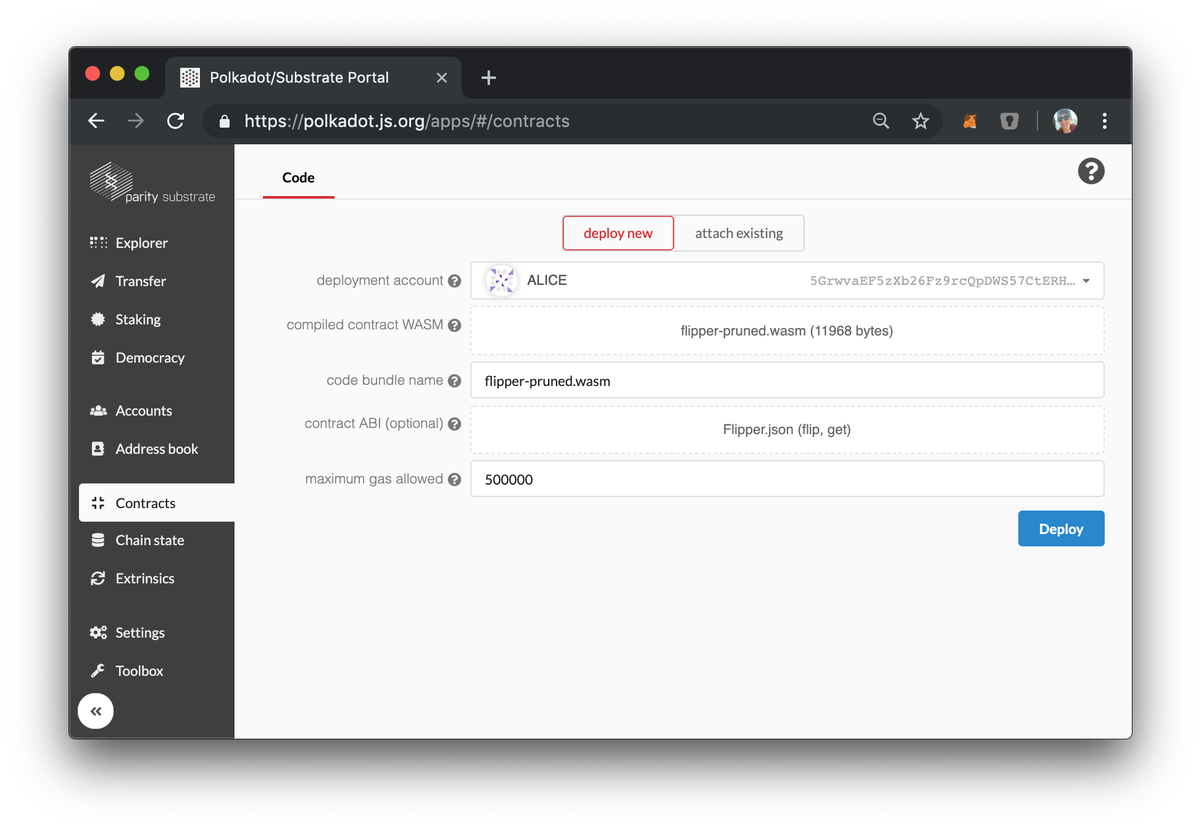
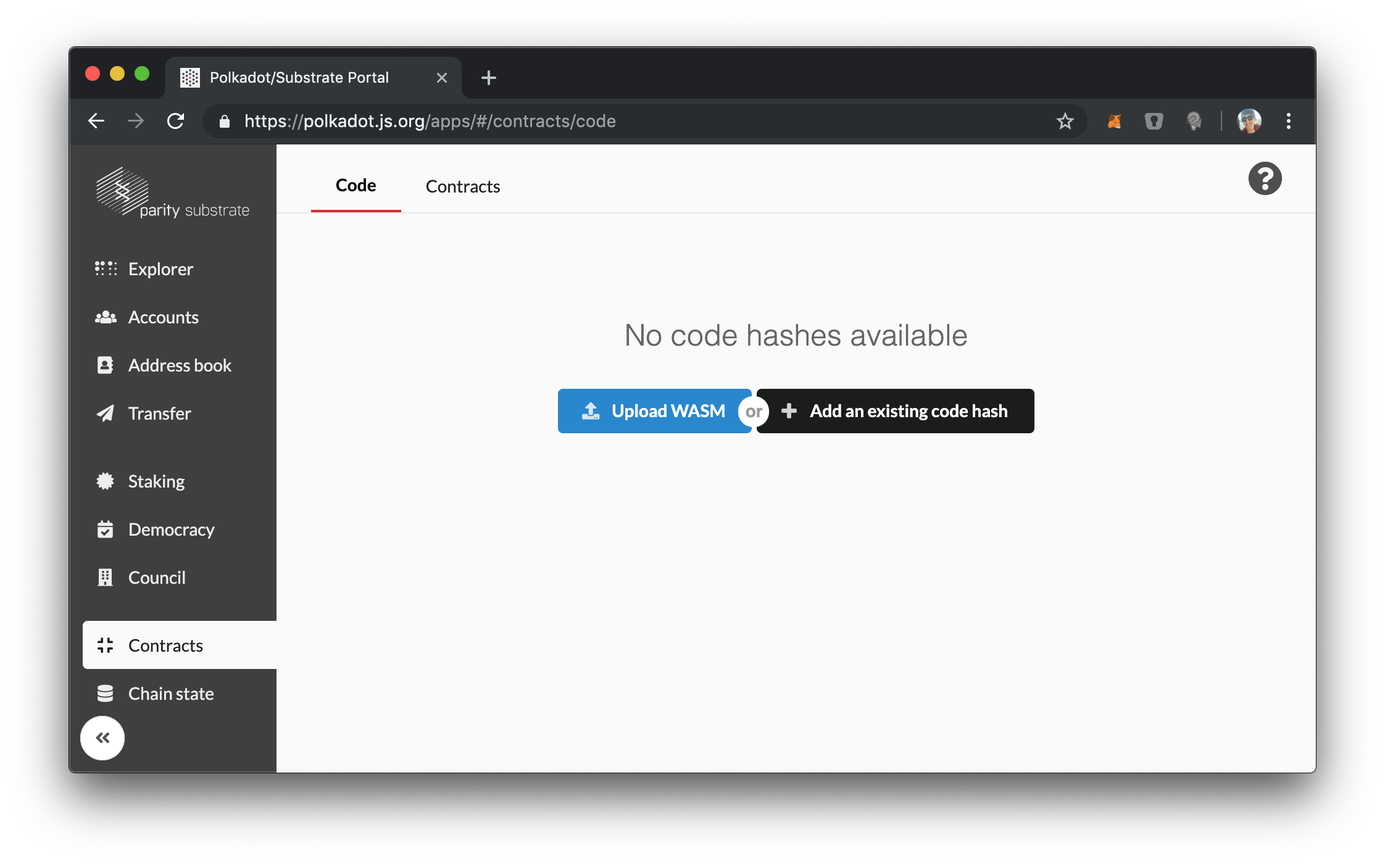
Deploy website
Deploy website version based on 84d9c6945a19dc81233f24be1835d4c7d788c4ee

diff --git a/docs/en/contracts/deploying-a-contract.html b/docs/en/contracts/deploying-a-contract.html
@@ -112,17 +112,20 @@
 <h3><a class="anchor" aria-hidden="true" id="putting-your-code-on-the-blockchain"></a><a href="#putting-your-code-on-the-blockchain" aria-hidden="true" class="hash-link"><svg class="hash-link-icon" aria-hidden="true" height="16" version="1.1" viewBox="0 0 16 16" width="16"><path fill-rule="evenodd" d="M4 9h1v1H4c-1.5 0-3-1.69-3-3.5S2.55 3 4 3h4c1.45 0 3 1.69 3 3.5 0 1.41-.91 2.72-2 3.25V8.59c.58-.45 1-1.27 1-2.09C10 5.22 8.98 4 8 4H4c-.98 0-2 1.22-2 2.5S3 9 4 9zm9-3h-1v1h1c1 0 2 1.22 2 2.5S13.98 12 13 12H9c-.98 0-2-1.22-2-2.5 0-.83.42-1.64 1-2.09V6.25c-1.09.53-2 1.84-2 3.25C6 11.31 7.55 13 9 13h4c1.45 0 3-1.69 3-3.5S14.5 6 13 6z"></path></svg></a>Putting Your Code on the Blockchain</h3>
 <p>With your Substrate development node running, you can go back to the <a href="https://polkadot.js.org/apps/">Polkadot UI</a> where you will be able to interact with your blockchain.</p>
 <p>Open the specially designed <strong>Contracts</strong> section of the UI.</p>
-<p>In the <strong>Code</strong> section, select a <em>deployment account</em> with some account balance like Alice. In <em>compiled contract WASM</em>, select the <code>flipper-pruned.wasm</code> file we generated. For the <em>contract ABI</em>, select the JSON file. Finally, set the <em>maximum gas allowed</em> to <code>500,000</code> units.</p>
+<p>In the <strong>Code</strong> section, select <em>upload WASM</em>.</p>
 <p><img src="/img/flipper-code-page.png" alt="Contracts code page for deploying Flipper"></p>
-<p>After you press <strong>Deploy</strong> and a new block is formed, an extrinsic event is emitted with <code>contract.codeStored</code>. This means that you have successfully stored your WASM contract on your Substrate blockchain!</p>
+<p>Choose a <em>deployment account</em> with some account balance like Alice. In <em>compiled contract WASM</em>, select the <code>flipper-pruned.wasm</code> file we generated. For the <em>contract ABI</em>, select the JSON file generated for your contract. Finally, set the <em>maximum gas allowed</em> to <code>500,000</code> units.</p>
+<p><img src="/img/flipper-upload-page.png" alt="Contracts upload page for deploying Flipper"></p>
+<p>After you press <strong>Upload</strong> and a new block is formed, an extrinsic event is emitted with <code>contract.codeStored</code>. This means that you have successfully stored your Wasm contract on your Substrate blockchain!</p>
 <h3><a class="anchor" aria-hidden="true" id="creating-an-instance-of-your-contract"></a><a href="#creating-an-instance-of-your-contract" aria-hidden="true" class="hash-link"><svg class="hash-link-icon" aria-hidden="true" height="16" version="1.1" viewBox="0 0 16 16" width="16"><path fill-rule="evenodd" d="M4 9h1v1H4c-1.5 0-3-1.69-3-3.5S2.55 3 4 3h4c1.45 0 3 1.69 3 3.5 0 1.41-.91 2.72-2 3.25V8.59c.58-.45 1-1.27 1-2.09C10 5.22 8.98 4 8 4H4c-.98 0-2 1.22-2 2.5S3 9 4 9zm9-3h-1v1h1c1 0 2 1.22 2 2.5S13.98 12 13 12H9c-.98 0-2-1.22-2-2.5 0-.83.42-1.64 1-2.09V6.25c-1.09.53-2 1.84-2 3.25C6 11.31 7.55 13 9 13h4c1.45 0 3-1.69 3-3.5S14.5 6 13 6z"></path></svg></a>Creating an Instance of Your Contract</h3>
 <p>Like Ethereum, smart contracts exist as an extension of the account system on the blockchain. Thus creating an instance of this contract will create a new <code>AccountId</code> which will store any balance managed by the smart contract and allow us to interact with the contract.</p>
-<p>You will notice on the <strong>Contracts</strong> tab there is a new section called <strong>Instance</strong> where we will now create an instance of this smart contract.</p>
-<p><img src="/img/flipper-instance-page.png" alt="An image of the Contracts Instance Page"></p>
-<p>The <em>code for this contract</em> is automatically set to the flipper contract you published, but you can imagine if you created multiple contracts, that you would be able to choose from a drop down of options.</p>
-<p>To instantiate our contract we just need to give this contract account an <em>endowment</em> of 1000 and again set the <em>maximum gas allowed</em> to <code>500,000</code> units.</p>
+<p>You will notice the contract you uploaded is now available to you on the <strong>Code</strong> section:</p>
+<p><img src="/img/flipper-code-uploaded-page.png" alt="An image of the Contracts Uploaded Contract Page"></p>
+<p>To create an instance of your contract, press the <em>Deploy</em> button, which will bring you to the deployment page:</p>
+<p><img src="/img/flipper-deploy-page.png" alt="An image of the Contracts Deploy Page"></p>
+<p>To instantiate our contract we just need to give this contract account an <em>endowment</em> of <code>10,000</code> and again set the <em>maximum gas allowed</em> to <code>500,000</code> units.</p>
 <blockquote>
-<p><strong>Note:</strong> As mentioned earlier, contract creation involves creation of a new Account. As such, you must be sure to give the contract account at least the existential deposit defined by your blockchain. This is why we set the <code>endowment</code> to <code>1000</code>.</p>
+<p><strong>Note:</strong> As mentioned earlier, contract creation involves creation of a new Account. As such, you must be sure to give the contract account at least the existential deposit defined by your blockchain. This is why we set the <code>endowment</code> to <code>10,000</code>.</p>
 </blockquote>
 <p>When you press <strong>Instantiate</strong>, you should see a flurry of events appear including the creation of a new account (<code>balances.NewAccount</code>) and the instantiation of the contract (<code>contract.Instantiated</code>):</p>
 <p><img src="/img/flipper-instance-events.png" alt="An image of events from instantiation of Flipper"></p>
@@ -130,10 +133,9 @@
 <p>Now that your contract has been fully deployed, we can start to interact with it! Flipper only has two functions, so we will show you what it's like to play with both of them.</p>
 <h3><a class="anchor" aria-hidden="true" id="get"></a><a href="#get" aria-hidden="true" class="hash-link"><svg class="hash-link-icon" aria-hidden="true" height="16" version="1.1" viewBox="0 0 16 16" width="16"><path fill-rule="evenodd" d="M4 9h1v1H4c-1.5 0-3-1.69-3-3.5S2.55 3 4 3h4c1.45 0 3 1.69 3 3.5 0 1.41-.91 2.72-2 3.25V8.59c.58-.45 1-1.27 1-2.09C10 5.22 8.98 4 8 4H4c-.98 0-2 1.22-2 2.5S3 9 4 9zm9-3h-1v1h1c1 0 2 1.22 2 2.5S13.98 12 13 12H9c-.98 0-2-1.22-2-2.5 0-.83.42-1.64 1-2.09V6.25c-1.09.53-2 1.84-2 3.25C6 11.31 7.55 13 9 13h4c1.45 0 3-1.69 3-3.5S14.5 6 13 6z"></path></svg></a><code>get()</code></h3>
 <p>If you take a look back at our contract's <code>deploy()</code> function, we set the initial value of the Flipper contract to <code>false</code>. Let's check that this is the case.</p>
-<p>In the <strong>Call</strong> section, set the <em>message to send</em> to <code>get(): bool</code>. Send a <em>value</em> of <code>1</code> with the <em>maximum gas allowed</em> set to <code>100,000</code>.</p>
-<blockquote>
-<p><strong>NOTE:</strong> You should not need to send any <em>value</em> when making a contract call, but there is a temporary bug in the UI requiring it, so we just put <code>1</code>.</p>
-</blockquote>
+<p>In the <strong>Contracts</strong> section, press <em>execute</em>.</p>
+<p><img src="/img/flipper-instance-page.png" alt="An image of instance page"></p>
+<p>Set the <em>message to send</em> to <code>get(): bool</code>. Set the <em>maximum gas allowed</em> to <code>100,000</code>. You do not need to set a <em>value</em> here since we don't want to transfer any tokens to the contract.</p>
 <p><img src="/img/flipper-call-page.png" alt="An image of the Contracts call page"></p>
 <p>Contract calls cannot return a value to the outside world. So when you press <strong>Call</strong>, you will get a pretty unsatisfying <code>system.ExtrinsicSuccess</code> message. However, ink! provides a debugging tool to enable you to print messages to your node's terminal.</p>
 <p>If we take a look, we can actually see our storage value:</p>
@@ -150,7 +152,7 @@
 <p>Woohoo! You deployed a smart contract!</p>
 <h2><a class="anchor" aria-hidden="true" id="next-steps"></a><a href="#next-steps" aria-hidden="true" class="hash-link"><svg class="hash-link-icon" aria-hidden="true" height="16" version="1.1" viewBox="0 0 16 16" width="16"><path fill-rule="evenodd" d="M4 9h1v1H4c-1.5 0-3-1.69-3-3.5S2.55 3 4 3h4c1.45 0 3 1.69 3 3.5 0 1.41-.91 2.72-2 3.25V8.59c.58-.45 1-1.27 1-2.09C10 5.22 8.98 4 8 4H4c-.98 0-2 1.22-2 2.5S3 9 4 9zm9-3h-1v1h1c1 0 2 1.22 2 2.5S13.98 12 13 12H9c-.98 0-2-1.22-2-2.5 0-.83.42-1.64 1-2.09V6.25c-1.09.53-2 1.84-2 3.25C6 11.31 7.55 13 9 13h4c1.45 0 3-1.69 3-3.5S14.5 6 13 6z"></path></svg></a>Next Steps</h2>
 <p>If you are interested to learn how to write ink! smart contracts, check out our <a href="/tutorials/">tutorials page</a>.</p>
-</span></div></article></div><div class="docLastUpdate"><em>Last updated on 6/19/2019 by Shawn Tabrizi</em></div><div class="docs-prevnext"><a class="docs-prev button" href="/docs/en/contracts/testing-your-contract"><span class="arrow-prev">← </span><span>Testing Your Contract</span></a><a class="docs-next button" href="/docs/en/contracts/faq"><span>Frequently Asked Questions</span><span class="arrow-next"> →</span></a></div></div></div><nav class="onPageNav"><ul class="toc-headings"><li><a href="#starting-your-node">Starting Your Node</a></li><li><a href="#creating-the-flipper-hello-world-contract">Creating the Flipper &quot;Hello World&quot; Contract</a></li><li><a href="#deploying-your-contract">Deploying Your Contract</a><ul class="toc-headings"><li><a href="#putting-your-code-on-the-blockchain">Putting Your Code on the Blockchain</a></li><li><a href="#creating-an-instance-of-your-contract">Creating an Instance of Your Contract</a></li></ul></li><li><a href="#calling-your-contract">Calling Your Contract</a><ul class="toc-headings"><li><a href="#get"><code>get()</code></a></li><li><a href="#flip"><code>flip()</code></a></li></ul></li><li><a href="#next-steps">Next Steps</a></li></ul></nav></div><footer class="nav-footer" id="footer"><section class="sitemap"><a href="/" class="nav-home"><img src="/img/Substrate-logo.svg" alt="Substrate Developer Hub" width="66" height="58"/></a><div><h5>Docs</h5><a href="/docs/en/getting-started">Getting Started</a><a href="/en/tutorials">Tutorials</a><a href="/rustdocs/v1.0/">Reference Docs</a></div><div><h5>Community</h5><a href="/en/users.html">User Showcase</a><a href="http://stackoverflow.com/questions/tagged/substrate" target="_blank" rel="noreferrer noopener">Stack Overflow</a><a href="https://riot.im/app/#/room/!HzySYSaIhtyWrwiwEV:matrix.org">Riot Chat</a><a href="https://twitter.com/ParityTech" target="_blank" rel="noreferrer noopener">Twitter</a></div><div><h5>More</h5><a href="https://www.parity.io/blog/">Blog</a><a href="https://github.com/paritytech/substrate">Substrate GitHub</a><a href="https://github.com/substrate-developer-hub/">Developer Hub GitHub</a><a class="github-button" href="https://github.com/substrate-developer-hub/substrate-developer-hub.github.io" data-icon="octicon-star" data-count-href="/facebook/docusaurus/stargazers" data-show-count="true" data-count-aria-label="# stargazers on GitHub" aria-label="Star this project on GitHub">Star</a></div></section><section class="copyright">Copyright © 2019 Parity Technologies</section></footer></div><script type="text/javascript" src="https://cdn.jsdelivr.net/docsearch.js/1/docsearch.min.js"></script><script>
+</span></div></article></div><div class="docLastUpdate"><em>Last updated on 6/24/2019 by Shawn Tabrizi</em></div><div class="docs-prevnext"><a class="docs-prev button" href="/docs/en/contracts/testing-your-contract"><span class="arrow-prev">← </span><span>Testing Your Contract</span></a><a class="docs-next button" href="/docs/en/contracts/faq"><span>Frequently Asked Questions</span><span class="arrow-next"> →</span></a></div></div></div><nav class="onPageNav"><ul class="toc-headings"><li><a href="#starting-your-node">Starting Your Node</a></li><li><a href="#creating-the-flipper-hello-world-contract">Creating the Flipper &quot;Hello World&quot; Contract</a></li><li><a href="#deploying-your-contract">Deploying Your Contract</a><ul class="toc-headings"><li><a href="#putting-your-code-on-the-blockchain">Putting Your Code on the Blockchain</a></li><li><a href="#creating-an-instance-of-your-contract">Creating an Instance of Your Contract</a></li></ul></li><li><a href="#calling-your-contract">Calling Your Contract</a><ul class="toc-headings"><li><a href="#get"><code>get()</code></a></li><li><a href="#flip"><code>flip()</code></a></li></ul></li><li><a href="#next-steps">Next Steps</a></li></ul></nav></div><footer class="nav-footer" id="footer"><section class="sitemap"><a href="/" class="nav-home"><img src="/img/Substrate-logo.svg" alt="Substrate Developer Hub" width="66" height="58"/></a><div><h5>Docs</h5><a href="/docs/en/getting-started">Getting Started</a><a href="/en/tutorials">Tutorials</a><a href="/rustdocs/v1.0/">Reference Docs</a></div><div><h5>Community</h5><a href="/en/users.html">User Showcase</a><a href="http://stackoverflow.com/questions/tagged/substrate" target="_blank" rel="noreferrer noopener">Stack Overflow</a><a href="https://riot.im/app/#/room/!HzySYSaIhtyWrwiwEV:matrix.org">Riot Chat</a><a href="https://twitter.com/ParityTech" target="_blank" rel="noreferrer noopener">Twitter</a></div><div><h5>More</h5><a href="https://www.parity.io/blog/">Blog</a><a href="https://github.com/paritytech/substrate">Substrate GitHub</a><a href="https://github.com/substrate-developer-hub/">Developer Hub GitHub</a><a class="github-button" href="https://github.com/substrate-developer-hub/substrate-developer-hub.github.io" data-icon="octicon-star" data-count-href="/facebook/docusaurus/stargazers" data-show-count="true" data-count-aria-label="# stargazers on GitHub" aria-label="Star this project on GitHub">Star</a></div></section><section class="copyright">Copyright © 2019 Parity Technologies</section></footer></div><script type="text/javascript" src="https://cdn.jsdelivr.net/docsearch.js/1/docsearch.min.js"></script><script>
                 document.addEventListener('keyup', function(e) {
                   if (e.target !== document.body) {
                     return;

diff --git a/docs/en/contracts/deploying-a-contract/index.html b/docs/en/contracts/deploying-a-contract/index.html
@@ -112,17 +112,20 @@
 <h3><a class="anchor" aria-hidden="true" id="putting-your-code-on-the-blockchain"></a><a href="#putting-your-code-on-the-blockchain" aria-hidden="true" class="hash-link"><svg class="hash-link-icon" aria-hidden="true" height="16" version="1.1" viewBox="0 0 16 16" width="16"><path fill-rule="evenodd" d="M4 9h1v1H4c-1.5 0-3-1.69-3-3.5S2.55 3 4 3h4c1.45 0 3 1.69 3 3.5 0 1.41-.91 2.72-2 3.25V8.59c.58-.45 1-1.27 1-2.09C10 5.22 8.98 4 8 4H4c-.98 0-2 1.22-2 2.5S3 9 4 9zm9-3h-1v1h1c1 0 2 1.22 2 2.5S13.98 12 13 12H9c-.98 0-2-1.22-2-2.5 0-.83.42-1.64 1-2.09V6.25c-1.09.53-2 1.84-2 3.25C6 11.31 7.55 13 9 13h4c1.45 0 3-1.69 3-3.5S14.5 6 13 6z"></path></svg></a>Putting Your Code on the Blockchain</h3>
 <p>With your Substrate development node running, you can go back to the <a href="https://polkadot.js.org/apps/">Polkadot UI</a> where you will be able to interact with your blockchain.</p>
 <p>Open the specially designed <strong>Contracts</strong> section of the UI.</p>
-<p>In the <strong>Code</strong> section, select a <em>deployment account</em> with some account balance like Alice. In <em>compiled contract WASM</em>, select the <code>flipper-pruned.wasm</code> file we generated. For the <em>contract ABI</em>, select the JSON file. Finally, set the <em>maximum gas allowed</em> to <code>500,000</code> units.</p>
+<p>In the <strong>Code</strong> section, select <em>upload WASM</em>.</p>
 <p><img src="/img/flipper-code-page.png" alt="Contracts code page for deploying Flipper"></p>
-<p>After you press <strong>Deploy</strong> and a new block is formed, an extrinsic event is emitted with <code>contract.codeStored</code>. This means that you have successfully stored your WASM contract on your Substrate blockchain!</p>
+<p>Choose a <em>deployment account</em> with some account balance like Alice. In <em>compiled contract WASM</em>, select the <code>flipper-pruned.wasm</code> file we generated. For the <em>contract ABI</em>, select the JSON file generated for your contract. Finally, set the <em>maximum gas allowed</em> to <code>500,000</code> units.</p>
+<p><img src="/img/flipper-upload-page.png" alt="Contracts upload page for deploying Flipper"></p>
+<p>After you press <strong>Upload</strong> and a new block is formed, an extrinsic event is emitted with <code>contract.codeStored</code>. This means that you have successfully stored your Wasm contract on your Substrate blockchain!</p>
 <h3><a class="anchor" aria-hidden="true" id="creating-an-instance-of-your-contract"></a><a href="#creating-an-instance-of-your-contract" aria-hidden="true" class="hash-link"><svg class="hash-link-icon" aria-hidden="true" height="16" version="1.1" viewBox="0 0 16 16" width="16"><path fill-rule="evenodd" d="M4 9h1v1H4c-1.5 0-3-1.69-3-3.5S2.55 3 4 3h4c1.45 0 3 1.69 3 3.5 0 1.41-.91 2.72-2 3.25V8.59c.58-.45 1-1.27 1-2.09C10 5.22 8.98 4 8 4H4c-.98 0-2 1.22-2 2.5S3 9 4 9zm9-3h-1v1h1c1 0 2 1.22 2 2.5S13.98 12 13 12H9c-.98 0-2-1.22-2-2.5 0-.83.42-1.64 1-2.09V6.25c-1.09.53-2 1.84-2 3.25C6 11.31 7.55 13 9 13h4c1.45 0 3-1.69 3-3.5S14.5 6 13 6z"></path></svg></a>Creating an Instance of Your Contract</h3>
 <p>Like Ethereum, smart contracts exist as an extension of the account system on the blockchain. Thus creating an instance of this contract will create a new <code>AccountId</code> which will store any balance managed by the smart contract and allow us to interact with the contract.</p>
-<p>You will notice on the <strong>Contracts</strong> tab there is a new section called <strong>Instance</strong> where we will now create an instance of this smart contract.</p>
-<p><img src="/img/flipper-instance-page.png" alt="An image of the Contracts Instance Page"></p>
-<p>The <em>code for this contract</em> is automatically set to the flipper contract you published, but you can imagine if you created multiple contracts, that you would be able to choose from a drop down of options.</p>
-<p>To instantiate our contract we just need to give this contract account an <em>endowment</em> of 1000 and again set the <em>maximum gas allowed</em> to <code>500,000</code> units.</p>
+<p>You will notice the contract you uploaded is now available to you on the <strong>Code</strong> section:</p>
+<p><img src="/img/flipper-code-uploaded-page.png" alt="An image of the Contracts Uploaded Contract Page"></p>
+<p>To create an instance of your contract, press the <em>Deploy</em> button, which will bring you to the deployment page:</p>
+<p><img src="/img/flipper-deploy-page.png" alt="An image of the Contracts Deploy Page"></p>
+<p>To instantiate our contract we just need to give this contract account an <em>endowment</em> of <code>10,000</code> and again set the <em>maximum gas allowed</em> to <code>500,000</code> units.</p>
 <blockquote>
-<p><strong>Note:</strong> As mentioned earlier, contract creation involves creation of a new Account. As such, you must be sure to give the contract account at least the existential deposit defined by your blockchain. This is why we set the <code>endowment</code> to <code>1000</code>.</p>
+<p><strong>Note:</strong> As mentioned earlier, contract creation involves creation of a new Account. As such, you must be sure to give the contract account at least the existential deposit defined by your blockchain. This is why we set the <code>endowment</code> to <code>10,000</code>.</p>
 </blockquote>
 <p>When you press <strong>Instantiate</strong>, you should see a flurry of events appear including the creation of a new account (<code>balances.NewAccount</code>) and the instantiation of the contract (<code>contract.Instantiated</code>):</p>
 <p><img src="/img/flipper-instance-events.png" alt="An image of events from instantiation of Flipper"></p>
@@ -130,10 +133,9 @@
 <p>Now that your contract has been fully deployed, we can start to interact with it! Flipper only has two functions, so we will show you what it's like to play with both of them.</p>
 <h3><a class="anchor" aria-hidden="true" id="get"></a><a href="#get" aria-hidden="true" class="hash-link"><svg class="hash-link-icon" aria-hidden="true" height="16" version="1.1" viewBox="0 0 16 16" width="16"><path fill-rule="evenodd" d="M4 9h1v1H4c-1.5 0-3-1.69-3-3.5S2.55 3 4 3h4c1.45 0 3 1.69 3 3.5 0 1.41-.91 2.72-2 3.25V8.59c.58-.45 1-1.27 1-2.09C10 5.22 8.98 4 8 4H4c-.98 0-2 1.22-2 2.5S3 9 4 9zm9-3h-1v1h1c1 0 2 1.22 2 2.5S13.98 12 13 12H9c-.98 0-2-1.22-2-2.5 0-.83.42-1.64 1-2.09V6.25c-1.09.53-2 1.84-2 3.25C6 11.31 7.55 13 9 13h4c1.45 0 3-1.69 3-3.5S14.5 6 13 6z"></path></svg></a><code>get()</code></h3>
 <p>If you take a look back at our contract's <code>deploy()</code> function, we set the initial value of the Flipper contract to <code>false</code>. Let's check that this is the case.</p>
-<p>In the <strong>Call</strong> section, set the <em>message to send</em> to <code>get(): bool</code>. Send a <em>value</em> of <code>1</code> with the <em>maximum gas allowed</em> set to <code>100,000</code>.</p>
-<blockquote>
-<p><strong>NOTE:</strong> You should not need to send any <em>value</em> when making a contract call, but there is a temporary bug in the UI requiring it, so we just put <code>1</code>.</p>
-</blockquote>
+<p>In the <strong>Contracts</strong> section, press <em>execute</em>.</p>
+<p><img src="/img/flipper-instance-page.png" alt="An image of instance page"></p>
+<p>Set the <em>message to send</em> to <code>get(): bool</code>. Set the <em>maximum gas allowed</em> to <code>100,000</code>. You do not need to set a <em>value</em> here since we don't want to transfer any tokens to the contract.</p>
 <p><img src="/img/flipper-call-page.png" alt="An image of the Contracts call page"></p>
 <p>Contract calls cannot return a value to the outside world. So when you press <strong>Call</strong>, you will get a pretty unsatisfying <code>system.ExtrinsicSuccess</code> message. However, ink! provides a debugging tool to enable you to print messages to your node's terminal.</p>
 <p>If we take a look, we can actually see our storage value:</p>
@@ -150,7 +152,7 @@
 <p>Woohoo! You deployed a smart contract!</p>
 <h2><a class="anchor" aria-hidden="true" id="next-steps"></a><a href="#next-steps" aria-hidden="true" class="hash-link"><svg class="hash-link-icon" aria-hidden="true" height="16" version="1.1" viewBox="0 0 16 16" width="16"><path fill-rule="evenodd" d="M4 9h1v1H4c-1.5 0-3-1.69-3-3.5S2.55 3 4 3h4c1.45 0 3 1.69 3 3.5 0 1.41-.91 2.72-2 3.25V8.59c.58-.45 1-1.27 1-2.09C10 5.22 8.98 4 8 4H4c-.98 0-2 1.22-2 2.5S3 9 4 9zm9-3h-1v1h1c1 0 2 1.22 2 2.5S13.98 12 13 12H9c-.98 0-2-1.22-2-2.5 0-.83.42-1.64 1-2.09V6.25c-1.09.53-2 1.84-2 3.25C6 11.31 7.55 13 9 13h4c1.45 0 3-1.69 3-3.5S14.5 6 13 6z"></path></svg></a>Next Steps</h2>
 <p>If you are interested to learn how to write ink! smart contracts, check out our <a href="/tutorials/">tutorials page</a>.</p>
-</span></div></article></div><div class="docLastUpdate"><em>Last updated on 6/19/2019 by Shawn Tabrizi</em></div><div class="docs-prevnext"><a class="docs-prev button" href="/docs/en/contracts/testing-your-contract"><span class="arrow-prev">← </span><span>Testing Your Contract</span></a><a class="docs-next button" href="/docs/en/contracts/faq"><span>Frequently Asked Questions</span><span class="arrow-next"> →</span></a></div></div></div><nav class="onPageNav"><ul class="toc-headings"><li><a href="#starting-your-node">Starting Your Node</a></li><li><a href="#creating-the-flipper-hello-world-contract">Creating the Flipper &quot;Hello World&quot; Contract</a></li><li><a href="#deploying-your-contract">Deploying Your Contract</a><ul class="toc-headings"><li><a href="#putting-your-code-on-the-blockchain">Putting Your Code on the Blockchain</a></li><li><a href="#creating-an-instance-of-your-contract">Creating an Instance of Your Contract</a></li></ul></li><li><a href="#calling-your-contract">Calling Your Contract</a><ul class="toc-headings"><li><a href="#get"><code>get()</code></a></li><li><a href="#flip"><code>flip()</code></a></li></ul></li><li><a href="#next-steps">Next Steps</a></li></ul></nav></div><footer class="nav-footer" id="footer"><section class="sitemap"><a href="/" class="nav-home"><img src="/img/Substrate-logo.svg" alt="Substrate Developer Hub" width="66" height="58"/></a><div><h5>Docs</h5><a href="/docs/en/getting-started">Getting Started</a><a href="/en/tutorials">Tutorials</a><a href="/rustdocs/v1.0/">Reference Docs</a></div><div><h5>Community</h5><a href="/en/users.html">User Showcase</a><a href="http://stackoverflow.com/questions/tagged/substrate" target="_blank" rel="noreferrer noopener">Stack Overflow</a><a href="https://riot.im/app/#/room/!HzySYSaIhtyWrwiwEV:matrix.org">Riot Chat</a><a href="https://twitter.com/ParityTech" target="_blank" rel="noreferrer noopener">Twitter</a></div><div><h5>More</h5><a href="https://www.parity.io/blog/">Blog</a><a href="https://github.com/paritytech/substrate">Substrate GitHub</a><a href="https://github.com/substrate-developer-hub/">Developer Hub GitHub</a><a class="github-button" href="https://github.com/substrate-developer-hub/substrate-developer-hub.github.io" data-icon="octicon-star" data-count-href="/facebook/docusaurus/stargazers" data-show-count="true" data-count-aria-label="# stargazers on GitHub" aria-label="Star this project on GitHub">Star</a></div></section><section class="copyright">Copyright © 2019 Parity Technologies</section></footer></div><script type="text/javascript" src="https://cdn.jsdelivr.net/docsearch.js/1/docsearch.min.js"></script><script>
+</span></div></article></div><div class="docLastUpdate"><em>Last updated on 6/24/2019 by Shawn Tabrizi</em></div><div class="docs-prevnext"><a class="docs-prev button" href="/docs/en/contracts/testing-your-contract"><span class="arrow-prev">← </span><span>Testing Your Contract</span></a><a class="docs-next button" href="/docs/en/contracts/faq"><span>Frequently Asked Questions</span><span class="arrow-next"> →</span></a></div></div></div><nav class="onPageNav"><ul class="toc-headings"><li><a href="#starting-your-node">Starting Your Node</a></li><li><a href="#creating-the-flipper-hello-world-contract">Creating the Flipper &quot;Hello World&quot; Contract</a></li><li><a href="#deploying-your-contract">Deploying Your Contract</a><ul class="toc-headings"><li><a href="#putting-your-code-on-the-blockchain">Putting Your Code on the Blockchain</a></li><li><a href="#creating-an-instance-of-your-contract">Creating an Instance of Your Contract</a></li></ul></li><li><a href="#calling-your-contract">Calling Your Contract</a><ul class="toc-headings"><li><a href="#get"><code>get()</code></a></li><li><a href="#flip"><code>flip()</code></a></li></ul></li><li><a href="#next-steps">Next Steps</a></li></ul></nav></div><footer class="nav-footer" id="footer"><section class="sitemap"><a href="/" class="nav-home"><img src="/img/Substrate-logo.svg" alt="Substrate Developer Hub" width="66" height="58"/></a><div><h5>Docs</h5><a href="/docs/en/getting-started">Getting Started</a><a href="/en/tutorials">Tutorials</a><a href="/rustdocs/v1.0/">Reference Docs</a></div><div><h5>Community</h5><a href="/en/users.html">User Showcase</a><a href="http://stackoverflow.com/questions/tagged/substrate" target="_blank" rel="noreferrer noopener">Stack Overflow</a><a href="https://riot.im/app/#/room/!HzySYSaIhtyWrwiwEV:matrix.org">Riot Chat</a><a href="https://twitter.com/ParityTech" target="_blank" rel="noreferrer noopener">Twitter</a></div><div><h5>More</h5><a href="https://www.parity.io/blog/">Blog</a><a href="https://github.com/paritytech/substrate">Substrate GitHub</a><a href="https://github.com/substrate-developer-hub/">Developer Hub GitHub</a><a class="github-button" href="https://github.com/substrate-developer-hub/substrate-developer-hub.github.io" data-icon="octicon-star" data-count-href="/facebook/docusaurus/stargazers" data-show-count="true" data-count-aria-label="# stargazers on GitHub" aria-label="Star this project on GitHub">Star</a></div></section><section class="copyright">Copyright © 2019 Parity Technologies</section></footer></div><script type="text/javascript" src="https://cdn.jsdelivr.net/docsearch.js/1/docsearch.min.js"></script><script>
                 document.addEventListener('keyup', function(e) {
                   if (e.target !== document.body) {
                     return;

diff --git a/docs/zh-CN/contracts/deploying-a-contract.html b/docs/zh-CN/contracts/deploying-a-contract.html
@@ -112,17 +112,20 @@
 <h3><a class="anchor" aria-hidden="true" id="putting-your-code-on-the-blockchain"></a><a href="#putting-your-code-on-the-blockchain" aria-hidden="true" class="hash-link"><svg class="hash-link-icon" aria-hidden="true" height="16" version="1.1" viewBox="0 0 16 16" width="16"><path fill-rule="evenodd" d="M4 9h1v1H4c-1.5 0-3-1.69-3-3.5S2.55 3 4 3h4c1.45 0 3 1.69 3 3.5 0 1.41-.91 2.72-2 3.25V8.59c.58-.45 1-1.27 1-2.09C10 5.22 8.98 4 8 4H4c-.98 0-2 1.22-2 2.5S3 9 4 9zm9-3h-1v1h1c1 0 2 1.22 2 2.5S13.98 12 13 12H9c-.98 0-2-1.22-2-2.5 0-.83.42-1.64 1-2.09V6.25c-1.09.53-2 1.84-2 3.25C6 11.31 7.55 13 9 13h4c1.45 0 3-1.69 3-3.5S14.5 6 13 6z"></path></svg></a>Putting Your Code on the Blockchain</h3>
 <p>With your Substrate development node running, you can go back to the <a href="https://polkadot.js.org/apps/">Polkadot UI</a> where you will be able to interact with your blockchain.</p>
 <p>Open the specially designed <strong>Contracts</strong> section of the UI.</p>
-<p>In the <strong>Code</strong> section, select a <em>deployment account</em> with some account balance like Alice. In <em>compiled contract WASM</em>, select the <code>flipper-pruned.wasm</code> file we generated. For the <em>contract ABI</em>, select the JSON file. Finally, set the <em>maximum gas allowed</em> to <code>500,000</code> units.</p>
+<p>In the <strong>Code</strong> section, select <em>upload WASM</em>.</p>
 <p><img src="/img/flipper-code-page.png" alt="Contracts code page for deploying Flipper"></p>
-<p>After you press <strong>Deploy</strong> and a new block is formed, an extrinsic event is emitted with <code>contract.codeStored</code>. This means that you have successfully stored your WASM contract on your Substrate blockchain!</p>
+<p>Choose a <em>deployment account</em> with some account balance like Alice. In <em>compiled contract WASM</em>, select the <code>flipper-pruned.wasm</code> file we generated. For the <em>contract ABI</em>, select the JSON file generated for your contract. Finally, set the <em>maximum gas allowed</em> to <code>500,000</code> units.</p>
+<p><img src="/img/flipper-upload-page.png" alt="Contracts upload page for deploying Flipper"></p>
+<p>After you press <strong>Upload</strong> and a new block is formed, an extrinsic event is emitted with <code>contract.codeStored</code>. This means that you have successfully stored your Wasm contract on your Substrate blockchain!</p>
 <h3><a class="anchor" aria-hidden="true" id="creating-an-instance-of-your-contract"></a><a href="#creating-an-instance-of-your-contract" aria-hidden="true" class="hash-link"><svg class="hash-link-icon" aria-hidden="true" height="16" version="1.1" viewBox="0 0 16 16" width="16"><path fill-rule="evenodd" d="M4 9h1v1H4c-1.5 0-3-1.69-3-3.5S2.55 3 4 3h4c1.45 0 3 1.69 3 3.5 0 1.41-.91 2.72-2 3.25V8.59c.58-.45 1-1.27 1-2.09C10 5.22 8.98 4 8 4H4c-.98 0-2 1.22-2 2.5S3 9 4 9zm9-3h-1v1h1c1 0 2 1.22 2 2.5S13.98 12 13 12H9c-.98 0-2-1.22-2-2.5 0-.83.42-1.64 1-2.09V6.25c-1.09.53-2 1.84-2 3.25C6 11.31 7.55 13 9 13h4c1.45 0 3-1.69 3-3.5S14.5 6 13 6z"></path></svg></a>Creating an Instance of Your Contract</h3>
 <p>Like Ethereum, smart contracts exist as an extension of the account system on the blockchain. Thus creating an instance of this contract will create a new <code>AccountId</code> which will store any balance managed by the smart contract and allow us to interact with the contract.</p>
-<p>You will notice on the <strong>Contracts</strong> tab there is a new section called <strong>Instance</strong> where we will now create an instance of this smart contract.</p>
-<p><img src="/img/flipper-instance-page.png" alt="An image of the Contracts Instance Page"></p>
-<p>The <em>code for this contract</em> is automatically set to the flipper contract you published, but you can imagine if you created multiple contracts, that you would be able to choose from a drop down of options.</p>
-<p>To instantiate our contract we just need to give this contract account an <em>endowment</em> of 1000 and again set the <em>maximum gas allowed</em> to <code>500,000</code> units.</p>
+<p>You will notice the contract you uploaded is now available to you on the <strong>Code</strong> section:</p>
+<p><img src="/img/flipper-code-uploaded-page.png" alt="An image of the Contracts Uploaded Contract Page"></p>
+<p>To create an instance of your contract, press the <em>Deploy</em> button, which will bring you to the deployment page:</p>
+<p><img src="/img/flipper-deploy-page.png" alt="An image of the Contracts Deploy Page"></p>
+<p>To instantiate our contract we just need to give this contract account an <em>endowment</em> of <code>10,000</code> and again set the <em>maximum gas allowed</em> to <code>500,000</code> units.</p>
 <blockquote>
-<p><strong>Note:</strong> As mentioned earlier, contract creation involves creation of a new Account. As such, you must be sure to give the contract account at least the existential deposit defined by your blockchain. This is why we set the <code>endowment</code> to <code>1000</code>.</p>
+<p><strong>Note:</strong> As mentioned earlier, contract creation involves creation of a new Account. As such, you must be sure to give the contract account at least the existential deposit defined by your blockchain. This is why we set the <code>endowment</code> to <code>10,000</code>.</p>
 </blockquote>
 <p>When you press <strong>Instantiate</strong>, you should see a flurry of events appear including the creation of a new account (<code>balances.NewAccount</code>) and the instantiation of the contract (<code>contract.Instantiated</code>):</p>
 <p><img src="/img/flipper-instance-events.png" alt="An image of events from instantiation of Flipper"></p>
@@ -130,10 +133,9 @@
 <p>Now that your contract has been fully deployed, we can start to interact with it! Flipper only has two functions, so we will show you what it's like to play with both of them.</p>
 <h3><a class="anchor" aria-hidden="true" id="get"></a><a href="#get" aria-hidden="true" class="hash-link"><svg class="hash-link-icon" aria-hidden="true" height="16" version="1.1" viewBox="0 0 16 16" width="16"><path fill-rule="evenodd" d="M4 9h1v1H4c-1.5 0-3-1.69-3-3.5S2.55 3 4 3h4c1.45 0 3 1.69 3 3.5 0 1.41-.91 2.72-2 3.25V8.59c.58-.45 1-1.27 1-2.09C10 5.22 8.98 4 8 4H4c-.98 0-2 1.22-2 2.5S3 9 4 9zm9-3h-1v1h1c1 0 2 1.22 2 2.5S13.98 12 13 12H9c-.98 0-2-1.22-2-2.5 0-.83.42-1.64 1-2.09V6.25c-1.09.53-2 1.84-2 3.25C6 11.31 7.55 13 9 13h4c1.45 0 3-1.69 3-3.5S14.5 6 13 6z"></path></svg></a><code>get()</code></h3>
 <p>If you take a look back at our contract's <code>deploy()</code> function, we set the initial value of the Flipper contract to <code>false</code>. Let's check that this is the case.</p>
-<p>In the <strong>Call</strong> section, set the <em>message to send</em> to <code>get(): bool</code>. Send a <em>value</em> of <code>1</code> with the <em>maximum gas allowed</em> set to <code>100,000</code>.</p>
-<blockquote>
-<p><strong>NOTE:</strong> You should not need to send any <em>value</em> when making a contract call, but there is a temporary bug in the UI requiring it, so we just put <code>1</code>.</p>
-</blockquote>
+<p>In the <strong>Contracts</strong> section, press <em>execute</em>.</p>
+<p><img src="/img/flipper-instance-page.png" alt="An image of instance page"></p>
+<p>Set the <em>message to send</em> to <code>get(): bool</code>. Set the <em>maximum gas allowed</em> to <code>100,000</code>. You do not need to set a <em>value</em> here since we don't want to transfer any tokens to the contract.</p>
 <p><img src="/img/flipper-call-page.png" alt="An image of the Contracts call page"></p>
 <p>Contract calls cannot return a value to the outside world. So when you press <strong>Call</strong>, you will get a pretty unsatisfying <code>system.ExtrinsicSuccess</code> message. However, ink! provides a debugging tool to enable you to print messages to your node's terminal.</p>
 <p>If we take a look, we can actually see our storage value:</p>

diff --git a/docs/zh-CN/contracts/deploying-a-contract/index.html b/docs/zh-CN/contracts/deploying-a-contract/index.html
@@ -112,17 +112,20 @@
 <h3><a class="anchor" aria-hidden="true" id="putting-your-code-on-the-blockchain"></a><a href="#putting-your-code-on-the-blockchain" aria-hidden="true" class="hash-link"><svg class="hash-link-icon" aria-hidden="true" height="16" version="1.1" viewBox="0 0 16 16" width="16"><path fill-rule="evenodd" d="M4 9h1v1H4c-1.5 0-3-1.69-3-3.5S2.55 3 4 3h4c1.45 0 3 1.69 3 3.5 0 1.41-.91 2.72-2 3.25V8.59c.58-.45 1-1.27 1-2.09C10 5.22 8.98 4 8 4H4c-.98 0-2 1.22-2 2.5S3 9 4 9zm9-3h-1v1h1c1 0 2 1.22 2 2.5S13.98 12 13 12H9c-.98 0-2-1.22-2-2.5 0-.83.42-1.64 1-2.09V6.25c-1.09.53-2 1.84-2 3.25C6 11.31 7.55 13 9 13h4c1.45 0 3-1.69 3-3.5S14.5 6 13 6z"></path></svg></a>Putting Your Code on the Blockchain</h3>
 <p>With your Substrate development node running, you can go back to the <a href="https://polkadot.js.org/apps/">Polkadot UI</a> where you will be able to interact with your blockchain.</p>
 <p>Open the specially designed <strong>Contracts</strong> section of the UI.</p>
-<p>In the <strong>Code</strong> section, select a <em>deployment account</em> with some account balance like Alice. In <em>compiled contract WASM</em>, select the <code>flipper-pruned.wasm</code> file we generated. For the <em>contract ABI</em>, select the JSON file. Finally, set the <em>maximum gas allowed</em> to <code>500,000</code> units.</p>
+<p>In the <strong>Code</strong> section, select <em>upload WASM</em>.</p>
 <p><img src="/img/flipper-code-page.png" alt="Contracts code page for deploying Flipper"></p>
-<p>After you press <strong>Deploy</strong> and a new block is formed, an extrinsic event is emitted with <code>contract.codeStored</code>. This means that you have successfully stored your WASM contract on your Substrate blockchain!</p>
+<p>Choose a <em>deployment account</em> with some account balance like Alice. In <em>compiled contract WASM</em>, select the <code>flipper-pruned.wasm</code> file we generated. For the <em>contract ABI</em>, select the JSON file generated for your contract. Finally, set the <em>maximum gas allowed</em> to <code>500,000</code> units.</p>
+<p><img src="/img/flipper-upload-page.png" alt="Contracts upload page for deploying Flipper"></p>
+<p>After you press <strong>Upload</strong> and a new block is formed, an extrinsic event is emitted with <code>contract.codeStored</code>. This means that you have successfully stored your Wasm contract on your Substrate blockchain!</p>
 <h3><a class="anchor" aria-hidden="true" id="creating-an-instance-of-your-contract"></a><a href="#creating-an-instance-of-your-contract" aria-hidden="true" class="hash-link"><svg class="hash-link-icon" aria-hidden="true" height="16" version="1.1" viewBox="0 0 16 16" width="16"><path fill-rule="evenodd" d="M4 9h1v1H4c-1.5 0-3-1.69-3-3.5S2.55 3 4 3h4c1.45 0 3 1.69 3 3.5 0 1.41-.91 2.72-2 3.25V8.59c.58-.45 1-1.27 1-2.09C10 5.22 8.98 4 8 4H4c-.98 0-2 1.22-2 2.5S3 9 4 9zm9-3h-1v1h1c1 0 2 1.22 2 2.5S13.98 12 13 12H9c-.98 0-2-1.22-2-2.5 0-.83.42-1.64 1-2.09V6.25c-1.09.53-2 1.84-2 3.25C6 11.31 7.55 13 9 13h4c1.45 0 3-1.69 3-3.5S14.5 6 13 6z"></path></svg></a>Creating an Instance of Your Contract</h3>
 <p>Like Ethereum, smart contracts exist as an extension of the account system on the blockchain. Thus creating an instance of this contract will create a new <code>AccountId</code> which will store any balance managed by the smart contract and allow us to interact with the contract.</p>
-<p>You will notice on the <strong>Contracts</strong> tab there is a new section called <strong>Instance</strong> where we will now create an instance of this smart contract.</p>
-<p><img src="/img/flipper-instance-page.png" alt="An image of the Contracts Instance Page"></p>
-<p>The <em>code for this contract</em> is automatically set to the flipper contract you published, but you can imagine if you created multiple contracts, that you would be able to choose from a drop down of options.</p>
-<p>To instantiate our contract we just need to give this contract account an <em>endowment</em> of 1000 and again set the <em>maximum gas allowed</em> to <code>500,000</code> units.</p>
+<p>You will notice the contract you uploaded is now available to you on the <strong>Code</strong> section:</p>
+<p><img src="/img/flipper-code-uploaded-page.png" alt="An image of the Contracts Uploaded Contract Page"></p>
+<p>To create an instance of your contract, press the <em>Deploy</em> button, which will bring you to the deployment page:</p>
+<p><img src="/img/flipper-deploy-page.png" alt="An image of the Contracts Deploy Page"></p>
+<p>To instantiate our contract we just need to give this contract account an <em>endowment</em> of <code>10,000</code> and again set the <em>maximum gas allowed</em> to <code>500,000</code> units.</p>
 <blockquote>
-<p><strong>Note:</strong> As mentioned earlier, contract creation involves creation of a new Account. As such, you must be sure to give the contract account at least the existential deposit defined by your blockchain. This is why we set the <code>endowment</code> to <code>1000</code>.</p>
+<p><strong>Note:</strong> As mentioned earlier, contract creation involves creation of a new Account. As such, you must be sure to give the contract account at least the existential deposit defined by your blockchain. This is why we set the <code>endowment</code> to <code>10,000</code>.</p>
 </blockquote>
 <p>When you press <strong>Instantiate</strong>, you should see a flurry of events appear including the creation of a new account (<code>balances.NewAccount</code>) and the instantiation of the contract (<code>contract.Instantiated</code>):</p>
 <p><img src="/img/flipper-instance-events.png" alt="An image of events from instantiation of Flipper"></p>
@@ -130,10 +133,9 @@
 <p>Now that your contract has been fully deployed, we can start to interact with it! Flipper only has two functions, so we will show you what it's like to play with both of them.</p>
 <h3><a class="anchor" aria-hidden="true" id="get"></a><a href="#get" aria-hidden="true" class="hash-link"><svg class="hash-link-icon" aria-hidden="true" height="16" version="1.1" viewBox="0 0 16 16" width="16"><path fill-rule="evenodd" d="M4 9h1v1H4c-1.5 0-3-1.69-3-3.5S2.55 3 4 3h4c1.45 0 3 1.69 3 3.5 0 1.41-.91 2.72-2 3.25V8.59c.58-.45 1-1.27 1-2.09C10 5.22 8.98 4 8 4H4c-.98 0-2 1.22-2 2.5S3 9 4 9zm9-3h-1v1h1c1 0 2 1.22 2 2.5S13.98 12 13 12H9c-.98 0-2-1.22-2-2.5 0-.83.42-1.64 1-2.09V6.25c-1.09.53-2 1.84-2 3.25C6 11.31 7.55 13 9 13h4c1.45 0 3-1.69 3-3.5S14.5 6 13 6z"></path></svg></a><code>get()</code></h3>
 <p>If you take a look back at our contract's <code>deploy()</code> function, we set the initial value of the Flipper contract to <code>false</code>. Let's check that this is the case.</p>
-<p>In the <strong>Call</strong> section, set the <em>message to send</em> to <code>get(): bool</code>. Send a <em>value</em> of <code>1</code> with the <em>maximum gas allowed</em> set to <code>100,000</code>.</p>
-<blockquote>
-<p><strong>NOTE:</strong> You should not need to send any <em>value</em> when making a contract call, but there is a temporary bug in the UI requiring it, so we just put <code>1</code>.</p>
-</blockquote>
+<p>In the <strong>Contracts</strong> section, press <em>execute</em>.</p>
+<p><img src="/img/flipper-instance-page.png" alt="An image of instance page"></p>
+<p>Set the <em>message to send</em> to <code>get(): bool</code>. Set the <em>maximum gas allowed</em> to <code>100,000</code>. You do not need to set a <em>value</em> here since we don't want to transfer any tokens to the contract.</p>
 <p><img src="/img/flipper-call-page.png" alt="An image of the Contracts call page"></p>
 <p>Contract calls cannot return a value to the outside world. So when you press <strong>Call</strong>, you will get a pretty unsatisfying <code>system.ExtrinsicSuccess</code> message. However, ink! provides a debugging tool to enable you to print messages to your node's terminal.</p>
 <p>If we take a look, we can actually see our storage value:</p>
